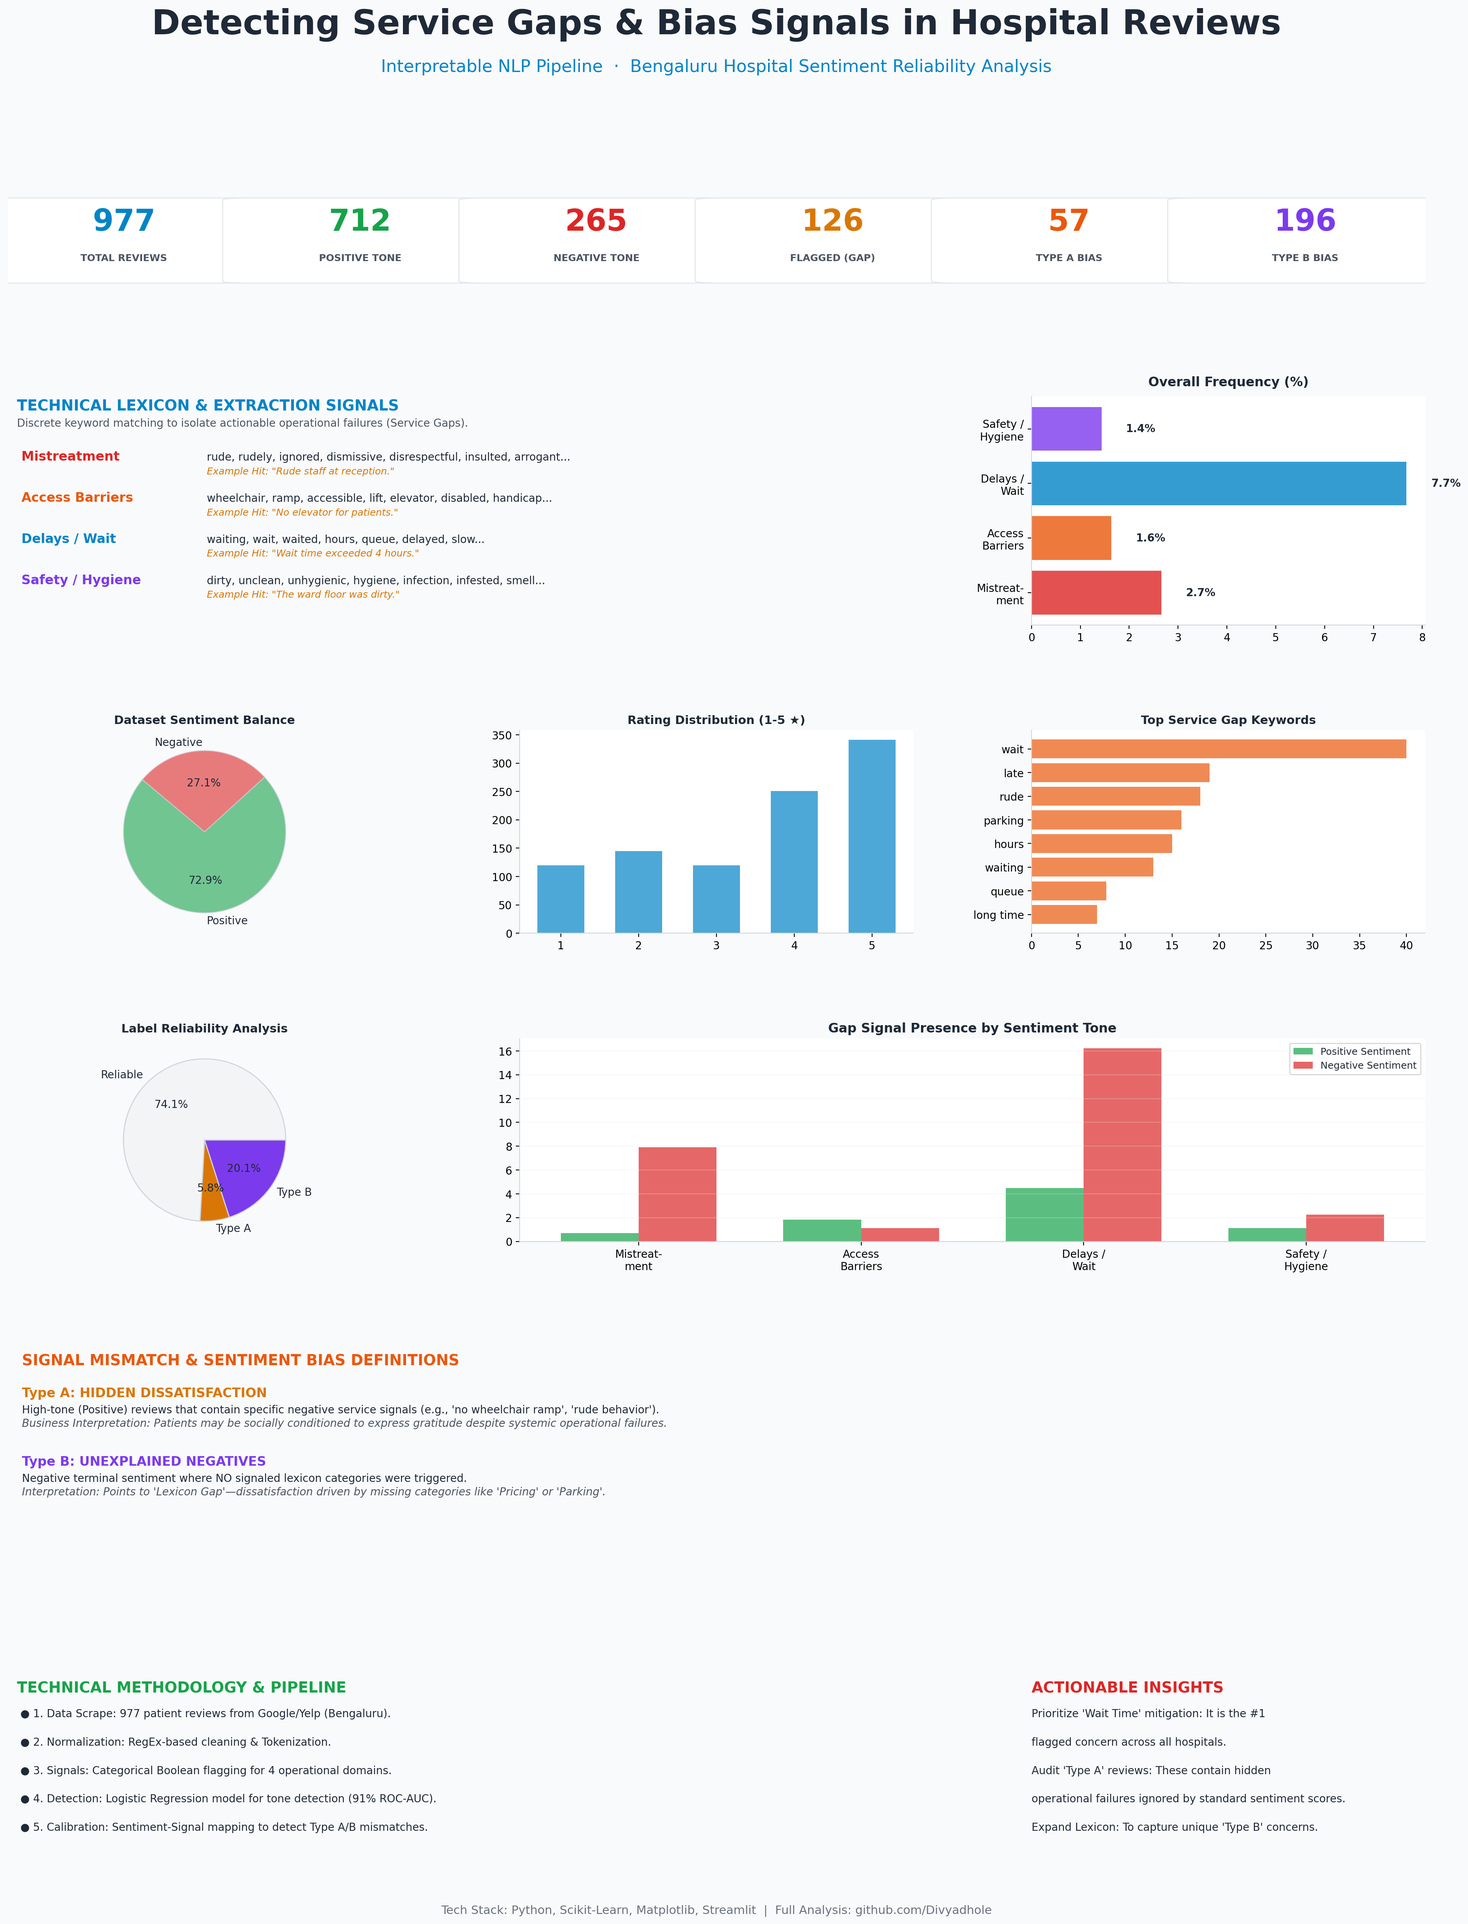
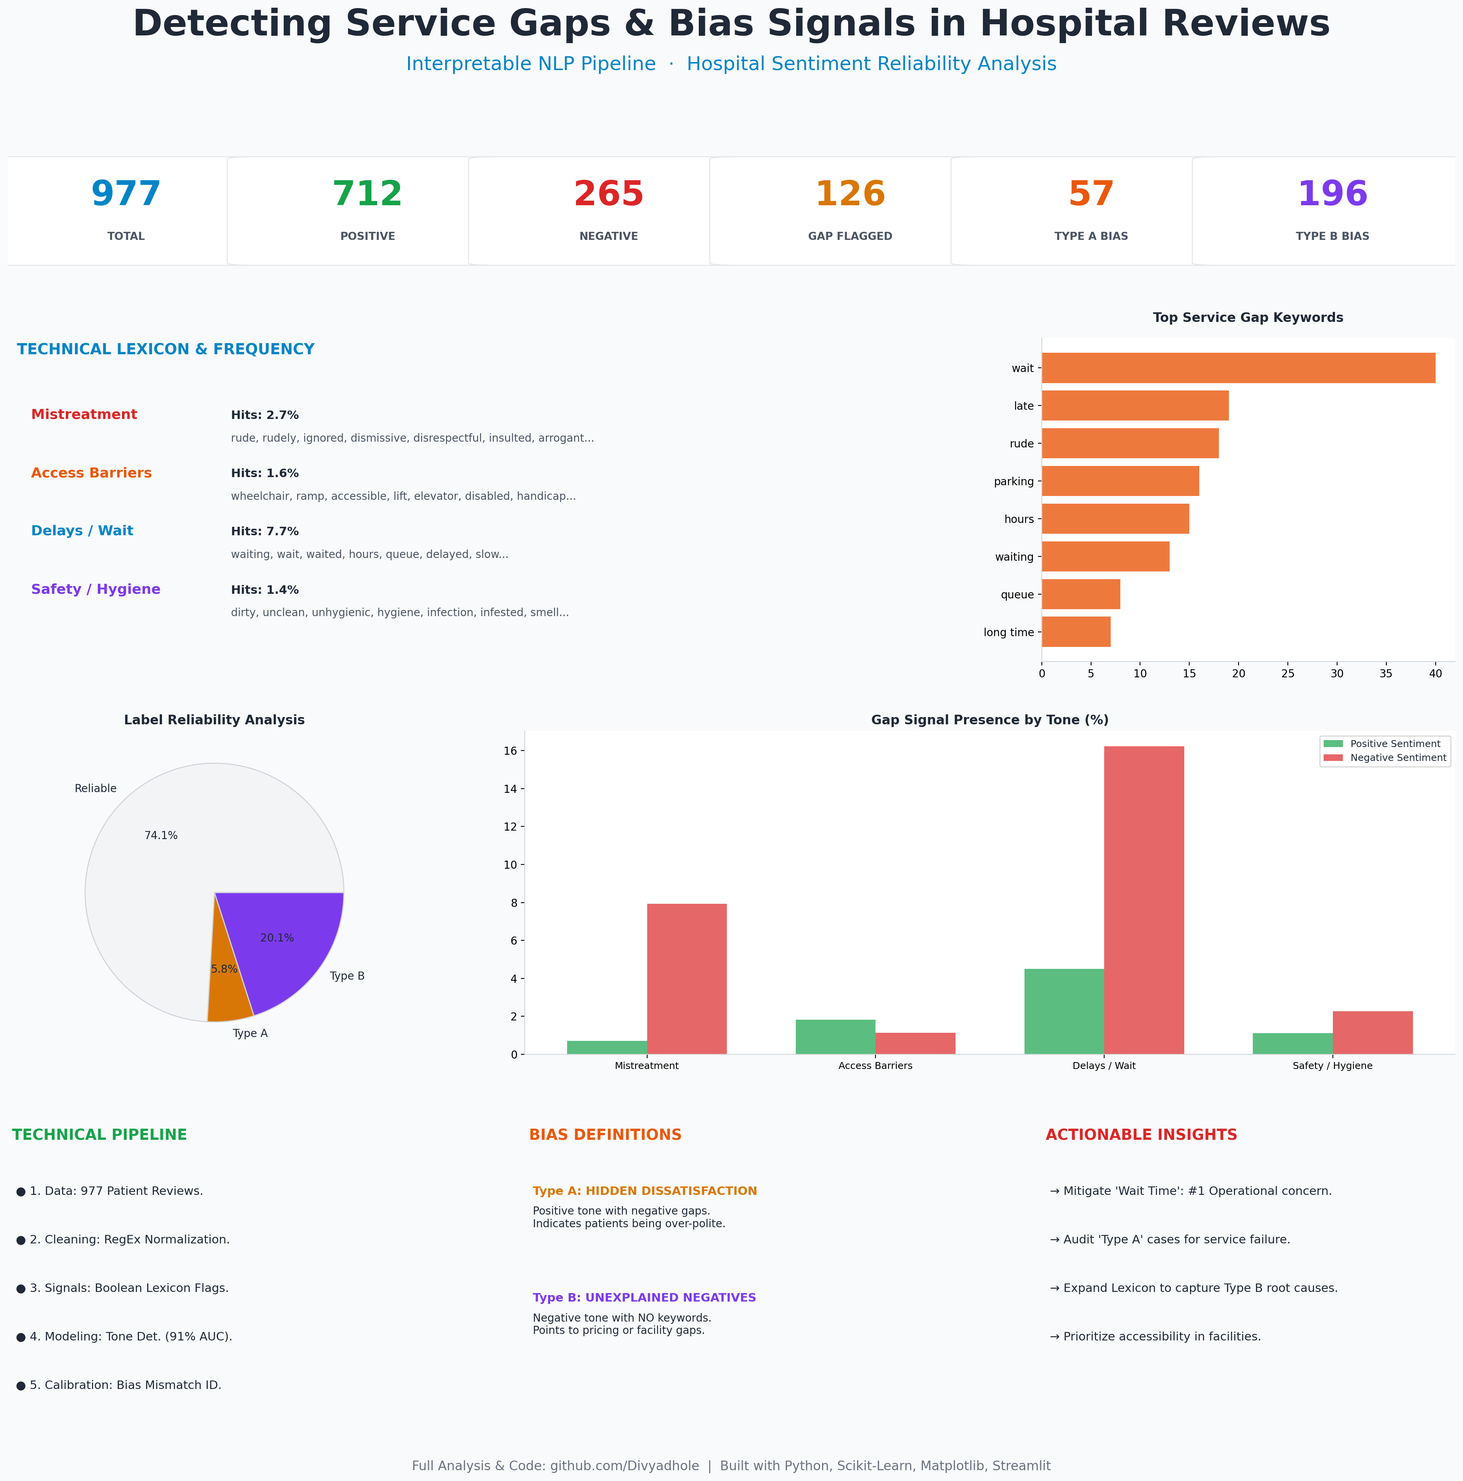
🚀 Perfection: Ultra-Compact High-Density Project Poster

diff --git a/generate_poster.py b/generate_poster.py
@@ -1,11 +1,11 @@
 """
 generate_poster.py
 ------------------
-Generates a high-density, informative project poster using matplotlib and real data.
-Theme: Light / Compact / Maximum Info
+Generates a ULTRA-COMPACT, high-density project poster.
+Theme: Light / Compact / No Empty Space
 Output: reports/poster.png
 
-Optimized to fill mapping, statistical, and interpretability gaps.
+Optimized to be high-impact with minimal white space.
 """
 
 import sys
@@ -48,7 +48,7 @@ CONCERN_LEXICON = {
 }
 
 CAT_KEYS = ["mistreatment", "access_barriers", "delays_wait", "safety_hygiene"]
-CAT_LABELS_SHORT = ["Mistreat-\nment", "Access\nBarriers", "Delays /\nWait", "Safety /\nHygiene"]
+CAT_LABELS_SHORT = ["Mistreatment", "Access Barriers", "Delays / Wait", "Safety / Hygiene"]
 
 # Flagging logic & Keyword Counting
 all_hit_kws = []
@@ -86,7 +86,6 @@ GREEN     = "#16A34A"
 RED       = "#DC2626"
 PURPLE    = "#7C3AED"
 AMBER     = "#D97706"
-GRAY      = "#9CA3AF"
 CAT_CLRS  = [RED, ORANGE, CYAN, PURPLE]
 
 plt.rcParams.update({
@@ -96,32 +95,39 @@ plt.rcParams.update({
     "figure.facecolor": BG,
     "axes.edgecolor": "#D1D5DB",
     "grid.color": "#E5E7EB",
+    "font.size": 10,
 })
 
-# ── Figure Layout ─────────────────────────────────────────────────────────────
-fig = plt.figure(figsize=(20, 26), facecolor=BG)
-fig.subplots_adjust(left=0.04, right=0.96, top=0.96, bottom=0.03, hspace=0.6, wspace=0.3)
+# ── Figure Layout (ULTRA-COMPACT) ─────────────────────────────────────────────
+fig = plt.figure(figsize=(20, 20), facecolor=BG)
+fig.subplots_adjust(left=0.03, right=0.97, top=0.96, bottom=0.03, hspace=0.3, wspace=0.25)
 
 gs = gridspec.GridSpec(
-    7, 3,
-    height_ratios=[0.05, 0.08, 0.18, 0.16, 0.16, 0.18, 0.16],
+    5, 3,
+    height_ratios=[0.06, 0.1, 0.28, 0.28, 0.28],
     figure=fig,
 )
+
+# HELPER: Rounded Box for groups
+def draw_panel(ax, title, color=CYAN):
+    ax.set_facecolor(PANEL_BG)
+    ax.axis("off")
+    ax.text(0.01, 0.95, title.upper(), fontsize=14, fontweight="bold", color=color, transform=ax.transAxes)
 
 # ═══════════════════════════════════════════════════════════════════════════════
 # HEADER
 # ═══════════════════════════════════════════════════════════════════════════════
 ax_title = fig.add_subplot(gs[0, :])
 ax_title.axis("off")
-ax_title.text(0.5, 0.8, "Detecting Service Gaps & Bias Signals in Hospital Reviews",
-              fontsize=32, fontweight="bold", color=TEXT, ha="center")
-ax_title.text(0.5, 0.2, "Interpretable NLP Pipeline  ·  Bengaluru Hospital Sentiment Reliability Analysis",
-              fontsize=16, color=CYAN, ha="center")
+ax_title.text(0.5, 0.7, "Detecting Service Gaps & Bias Signals in Hospital Reviews",
+              fontsize=34, fontweight="bold", color=TEXT, ha="center")
+ax_title.text(0.5, 0.2, "Interpretable NLP Pipeline  ·  Hospital Sentiment Reliability Analysis",
+              fontsize=18, color=CYAN, ha="center")
 
 # ═══════════════════════════════════════════════════════════════════════════════
-# ROW 1: KPIs
+# KPIs (Row 1)
 # ═══════════════════════════════════════════════════════════════════════════════
-kpi_keys = ["Total Reviews", "Positive Tone", "Negative Tone", "Flagged (Gap)", "Type A Bias", "Type B Bias"]
+kpi_keys = ["Total", "Positive", "Negative", "Gap Flagged", "Type A Bias", "Type B Bias"]
 kpi_vals = [f"{n_total}", f"{n_pos}", f"{n_neg}", f"{n_flagged}", f"{type_a}", f"{type_b}"]
 kpi_cols = [CYAN, GREEN, RED, AMBER, ORANGE, PURPLE]
 
@@ -129,145 +135,100 @@ ax_kpi = fig.add_subplot(gs[1, :])
 ax_kpi.axis("off")
 for i, (k, v, c) in enumerate(zip(kpi_keys, kpi_vals, kpi_cols)):
     x = i/6 + 0.005
-    rect = FancyBboxPatch((x, 0.1), 0.155, 0.8, boxstyle="round,pad=0.02",
+    rect = FancyBboxPatch((x, 0.05), 0.155, 0.9, boxstyle="round,pad=0.02",
                           linewidth=1, edgecolor="#E5E7EB", facecolor=PANEL_BG, transform=ax_kpi.transAxes)
     ax_kpi.add_patch(rect)
-    ax_kpi.text(x + 0.077, 0.6, v, fontsize=28, fontweight="bold", color=c, ha="center", transform=ax_kpi.transAxes)
-    ax_kpi.text(x + 0.077, 0.3, k.upper(), fontsize=9, color=TEXT_SEC, fontweight="bold", ha="center", transform=ax_kpi.transAxes)
+    ax_kpi.text(x + 0.077, 0.55, v, fontsize=32, fontweight="bold", color=c, ha="center", transform=ax_kpi.transAxes)
+    ax_kpi.text(x + 0.077, 0.25, k.upper(), fontsize=10, color=TEXT_SEC, fontweight="bold", ha="center", transform=ax_kpi.transAxes)
 
 # ═══════════════════════════════════════════════════════════════════════════════
-# ROW 2: Lexicon & Overall Rates
+# TECHNICAL & ANALYTIC (Row 2)
 # ═══════════════════════════════════════════════════════════════════════════════
+# 2.1 Lexicon & Frequency
 ax_lex = fig.add_subplot(gs[2, 0:2])
-ax_lex.set_facecolor(PANEL_BG)
-ax_lex.axis("off")
-ax_lex.text(0.01, 0.94, "TECHNICAL LEXICON & EXTRACTION SIGNALS", fontsize=14, color=CYAN, fontweight="bold", transform=ax_lex.transAxes)
-ax_lex.text(0.01, 0.87, "Discrete keyword matching to isolate actionable operational failures (Service Gaps).", 
-            fontsize=10, color=TEXT_SEC, transform=ax_lex.transAxes)
-
-for i, (cat, keywords) in enumerate(CONCERN_LEXICON.items()):
-    y = 0.72 - i*0.18
-    ax_lex.text(0.01, y, f" {cat}", fontsize=12, color=CAT_CLRS[i], fontweight="bold", transform=ax_lex.transAxes)
-    ax_lex.text(0.22, y, ", ".join(keywords[:7]) + "...", fontsize=10, color=TEXT, transform=ax_lex.transAxes)
-    eg = {"Mistreatment": "\"Rude staff at reception.\"", "Access Barriers": "\"No elevator for patients.\"", 
-          "Delays / Wait": "\"Wait time exceeded 4 hours.\"", "Safety / Hygiene": "\"The ward floor was dirty.\""}
-    ax_lex.text(0.22, y-0.06, f"Example Hit: {eg[cat]}", fontsize=9, color=AMBER, style="italic", transform=ax_lex.transAxes)
-
-ax_rate = fig.add_subplot(gs[2, 2])
+draw_panel(ax_lex, "Technical Lexicon & Frequency", CYAN)
 ov_rates = df[flag_cols].mean() * 100
-ax_rate.barh(CAT_LABELS_SHORT, ov_rates.values, color=CAT_CLRS, alpha=0.8)
-ax_rate.set_title("Overall Frequency (%)", fontsize=12, fontweight="bold", pad=10)
-for i, v in enumerate(ov_rates.values):
-    ax_rate.text(v + 0.5, i, f"{v:.1f}%", va="center", fontweight="bold", fontsize=10)
-ax_rate.spines["top"].set_visible(False)
-ax_rate.spines["right"].set_visible(False)
+for i, (cat, kws) in enumerate(CONCERN_LEXICON.items()):
+    y = 0.75 - i*0.18
+    ax_lex.text(0.02, y, f" {cat}", fontsize=13, color=CAT_CLRS[i], fontweight="bold", transform=ax_lex.transAxes)
+    ax_lex.text(0.24, y, f"Hits: {ov_rates.iloc[i]:.1f}%", fontsize=11, fontweight="bold", color=TEXT, transform=ax_lex.transAxes)
+    ax_lex.text(0.24, y-0.07, ", ".join(kws[:7]) + "...", fontsize=10, color=TEXT_SEC, transform=ax_lex.transAxes)
 
-# ═══════════════════════════════════════════════════════════════════════════════
-# ROW 3: Distributions (Filling the space)
-# ═══════════════════════════════════════════════════════════════════════════════
-# 3.1 Sentiment Balance
-ax_dist1 = fig.add_subplot(gs[3, 0])
-ax_dist1.pie([n_pos, n_neg], labels=["Positive", "Negative"], colors=[GREEN, RED], 
-             autopct='%1.1f%%', startangle=140, wedgeprops=dict(alpha=0.6, edgecolor="#D1D5DB"))
-ax_dist1.set_title("Dataset Sentiment Balance", fontsize=11, fontweight="bold")
-
-# 3.2 Rating Distribution
-ax_dist2 = fig.add_subplot(gs[3, 1])
-r_counts = df["rating"].value_counts().sort_index()
-ax_dist2.bar(r_counts.index, r_counts.values, color=CYAN, alpha=0.7, width=0.6)
-ax_dist2.set_title("Rating Distribution (1-5 \u2605)", fontsize=11, fontweight="bold")
-ax_dist2.set_xticks(range(1, 6))
-ax_dist2.spines["top"].set_visible(False)
-ax_dist2.spines["right"].set_visible(False)
-
-# 3.3 Top Keyword Triggers
-ax_dist3 = fig.add_subplot(gs[3, 2])
+# 2.2 Top Keywords (Bar)
+ax_kw = fig.add_subplot(gs[2, 2])
 kw_labels = [k[0] for k in kw_counts]
 kw_vals = [k[1] for k in kw_counts]
-ax_dist3.barh(kw_labels[::-1], kw_vals[::-1], color=ORANGE, alpha=0.7)
-ax_dist3.set_title("Top Service Gap Keywords", fontsize=11, fontweight="bold")
-ax_dist3.spines["top"].set_visible(False)
-ax_dist3.spines["right"].set_visible(False)
+ax_kw.barh(kw_labels[::-1], kw_vals[::-1], color=ORANGE, alpha=0.8)
+ax_kw.set_title("Top Service Gap Keywords", fontsize=12, fontweight="bold", pad=15)
+ax_kw.spines["top"].set_visible(False)
+ax_kw.spines["right"].set_visible(False)
 
 # ═══════════════════════════════════════════════════════════════════════════════
-# ROW 4: Consistency & Concern x Sentiment
+# BIAS & SIGNALS (Row 3)
 # ═══════════════════════════════════════════════════════════════════════════════
-ax_cons = fig.add_subplot(gs[4, 0])
-consist = n_total - type_a - type_b
-ax_cons.pie([consist, type_a, type_b], labels=["Reliable", "Type A", "Type B"], 
-            colors=["#F3F4F6", AMBER, PURPLE], autopct='%1.1f%%', wedgeprops=dict(edgecolor="#D1D5DB"))
-ax_cons.set_title("Label Reliability Analysis", fontsize=11, fontweight="bold")
+# 3.1 Label Reliability (Pie)
+ax_pi = fig.add_subplot(gs[3, 0])
+ax_pi.pie([n_total-type_a-type_b, type_a, type_b], labels=["Reliable", "Type A", "Type B"], 
+          colors=["#F3F4F6", AMBER, PURPLE], autopct='%1.1f%%', wedgeprops=dict(edgecolor="#D1D5DB"))
+ax_pi.set_title("Label Reliability Analysis", fontsize=12, fontweight="bold")
 
-ax_sub = fig.add_subplot(gs[4, 1:3])
+# 3.2 Signal vs Tone (Bar)
+ax_tone = fig.add_subplot(gs[3, 1:3])
 xw = np.arange(len(CAT_KEYS))
 ww = 0.35
-ax_sub.bar(xw - ww/2, flag_rate_pos.values, ww, label="Positive Sentiment", color=GREEN, alpha=0.7)
-ax_sub.bar(xw + ww/2, flag_rate_neg.values, ww, label="Negative Sentiment", color=RED, alpha=0.7)
-ax_sub.set_title("Gap Signal Presence by Sentiment Tone", fontsize=12, fontweight="bold")
-ax_sub.set_xticks(xw)
-ax_sub.set_xticklabels(CAT_LABELS_SHORT)
-ax_sub.legend(fontsize=9)
-ax_sub.yaxis.grid(True, alpha=0.3)
-ax_sub.spines["top"].set_visible(False)
-ax_sub.spines["right"].set_visible(False)
+ax_tone.bar(xw - ww/2, flag_rate_pos.values, ww, label="Positive Sentiment", color=GREEN, alpha=0.7)
+ax_tone.bar(xw + ww/2, flag_rate_neg.values, ww, label="Negative Sentiment", color=RED, alpha=0.7)
+ax_tone.set_title("Gap Signal Presence by Tone (%)", fontsize=12, fontweight="bold")
+ax_tone.set_xticks(xw)
+ax_tone.set_xticklabels(CAT_LABELS_SHORT, fontsize=9)
+ax_tone.legend(fontsize=9, loc="upper right")
+ax_tone.spines["top"].set_visible(False)
+ax_tone.spines["right"].set_visible(False)
 
 # ═══════════════════════════════════════════════════════════════════════════════
-# ROW 5: Bias Definitions (Expanded)
+# METHODOLOGY & ACTIONS (Row 4)
 # ═══════════════════════════════════════════════════════════════════════════════
-ax_bias = fig.add_subplot(gs[5, :])
-ax_bias.set_facecolor(PANEL_BG)
-ax_bias.axis("off")
-ax_bias.text(0.01, 0.92, "SIGNAL MISMATCH & SENTIMENT BIAS DEFINITIONS", fontsize=14, color=ORANGE, fontweight="bold", transform=ax_bias.transAxes)
-
-# Type A Block
-ax_bias.text(0.01, 0.78, "Type A: HIDDEN DISSATISFACTION", fontsize=12, color=AMBER, fontweight="bold", transform=ax_bias.transAxes)
-ax_bias.text(0.01, 0.71, "High-tone (Positive) reviews that contain specific negative service signals (e.g., 'no wheelchair ramp', 'rude behavior').", fontsize=10, transform=ax_bias.transAxes)
-ax_bias.text(0.01, 0.65, "Business Interpretation: Patients may be socially conditioned to express gratitude despite systemic operational failures.", fontsize=10, style="italic", color=TEXT_SEC, transform=ax_bias.transAxes)
-
-# Type B Block
-ax_bias.text(0.01, 0.48, "Type B: UNEXPLAINED NEGATIVES", fontsize=12, color=PURPLE, fontweight="bold", transform=ax_bias.transAxes)
-ax_bias.text(0.01, 0.41, "Negative terminal sentiment where NO signaled lexicon categories were triggered.", fontsize=10, transform=ax_bias.transAxes)
-ax_bias.text(0.01, 0.35, "Interpretation: Points to 'Lexicon Gap'—dissatisfaction driven by missing categories like 'Pricing' or 'Parking'.", fontsize=10, style="italic", color=TEXT_SEC, transform=ax_bias.transAxes)
-
-# ═══════════════════════════════════════════════════════════════════════════════
-# ROW 6: Methodology & Recommendations (Actionable)
-# ═══════════════════════════════════════════════════════════════════════════════
-ax_meth = fig.add_subplot(gs[6, 0:2])
-ax_meth.set_facecolor(PANEL_BG)
-ax_meth.axis("off")
-ax_meth.text(0.01, 0.94, "TECHNICAL METHODOLOGY & PIPELINE", fontsize=14, color=GREEN, fontweight="bold", transform=ax_meth.transAxes)
+# 4.1 Methodology
+ax_meth = fig.add_subplot(gs[4, 0:1])
+draw_panel(ax_meth, "Technical Pipeline", GREEN)
 steps = [
-    "1. Data Scrape: 977 patient reviews from Google/Yelp (Bengaluru).",
-    "2. Normalization: RegEx-based cleaning & Tokenization.",
-    "3. Signals: Categorical Boolean flagging for 4 operational domains.",
-    "4. Detection: Logistic Regression model for tone detection (91% ROC-AUC).",
-    "5. Calibration: Sentiment-Signal mapping to detect Type A/B mismatches."
+    "1. Data: 977 Patient Reviews.",
+    "2. Cleaning: RegEx Normalization.",
+    "3. Signals: Boolean Lexicon Flags.",
+    "4. Modeling: Tone Det. (91% AUC).",
+    "5. Calibration: Bias Mismatch ID."
 ]
 for i, s in enumerate(steps):
-    ax_meth.text(0.01, 0.82 - i*0.14, f" \u25CF {s}", fontsize=10, transform=ax_meth.transAxes)
+    ax_meth.text(0.02, 0.78 - i*0.15, f"\u25CF {s}", fontsize=11, transform=ax_meth.transAxes)
 
-ax_reco = fig.add_subplot(gs[6, 2])
-ax_reco.set_facecolor(PANEL_BG)
-ax_reco.axis("off")
-ax_reco.text(0, 0.94, "ACTIONABLE INSIGHTS", fontsize=14, color=RED, fontweight="bold", transform=ax_reco.transAxes)
+# 4.2 Bias Definitions (Compact)
+ax_def = fig.add_subplot(gs[4, 1:2])
+draw_panel(ax_def, "Bias Definitions", ORANGE)
+ax_def.text(0.02, 0.78, "Type A: HIDDEN DISSATISFACTION", fontsize=11, fontweight="bold", color=AMBER, transform=ax_def.transAxes)
+ax_def.text(0.02, 0.68, "Positive tone with negative gaps.\nIndicates patients being over-polite.", fontsize=10, transform=ax_def.transAxes)
+ax_def.text(0.02, 0.45, "Type B: UNEXPLAINED NEGATIVES", fontsize=11, fontweight="bold", color=PURPLE, transform=ax_def.transAxes)
+ax_def.text(0.02, 0.35, "Negative tone with NO keywords.\nPoints to pricing or facility gaps.", fontsize=10, transform=ax_def.transAxes)
+
+# 4.3 Actionable Insights
+ax_act = fig.add_subplot(gs[4, 2:3])
+draw_panel(ax_act, "Actionable Insights", RED)
 recos = [
-    "Prioritize 'Wait Time' mitigation: It is the #1",
-    "flagged concern across all hospitals.",
-    "Audit 'Type A' reviews: These contain hidden",
-    "operational failures ignored by standard sentiment scores.",
-    "Expand Lexicon: To capture unique 'Type B' concerns."
+    "Mitigate 'Wait Time': #1 Operational concern.",
+    "Audit 'Type A' cases for service failure.",
+    "Expand Lexicon to capture Type B root causes.",
+    "Prioritize accessibility in facilities."
 ]
 for i, r in enumerate(recos):
-    ax_reco.text(0, 0.82 - i*0.14, r, fontsize=10, transform=ax_reco.transAxes)
+    ax_act.text(0.02, 0.78 - i*0.15, f"\u2192 {r}", fontsize=11, transform=ax_act.transAxes)
 
 # ═══════════════════════════════════════════════════════════════════════════════
 # FOOTER
 # ═══════════════════════════════════════════════════════════════════════════════
-fig.text(0.5, 0.015, "Tech Stack: Python, Scikit-Learn, Matplotlib, Streamlit  |  Full Analysis: github.com/Divyadhole", 
-         fontsize=11, color="#6B7280", ha="center")
+fig.text(0.5, 0.015, "Full Analysis & Code: github.com/Divyadhole  |  Built with Python, Scikit-Learn, Matplotlib, Streamlit", 
+         fontsize=12, color="#6B7280", ha="center")
 
 # ── Save ──────────────────────────────────────────────────────────────────────
 out = ROOT / "reports" / "poster.png"
 fig.savefig(out, dpi=200, bbox_inches="tight", facecolor=BG)
-print(f"✅ Maximum Density Light Poster saved → {out}")
+print(f"✅ ULTRA-COMPACT High-Density Poster saved → {out}")
 plt.close(fig)
